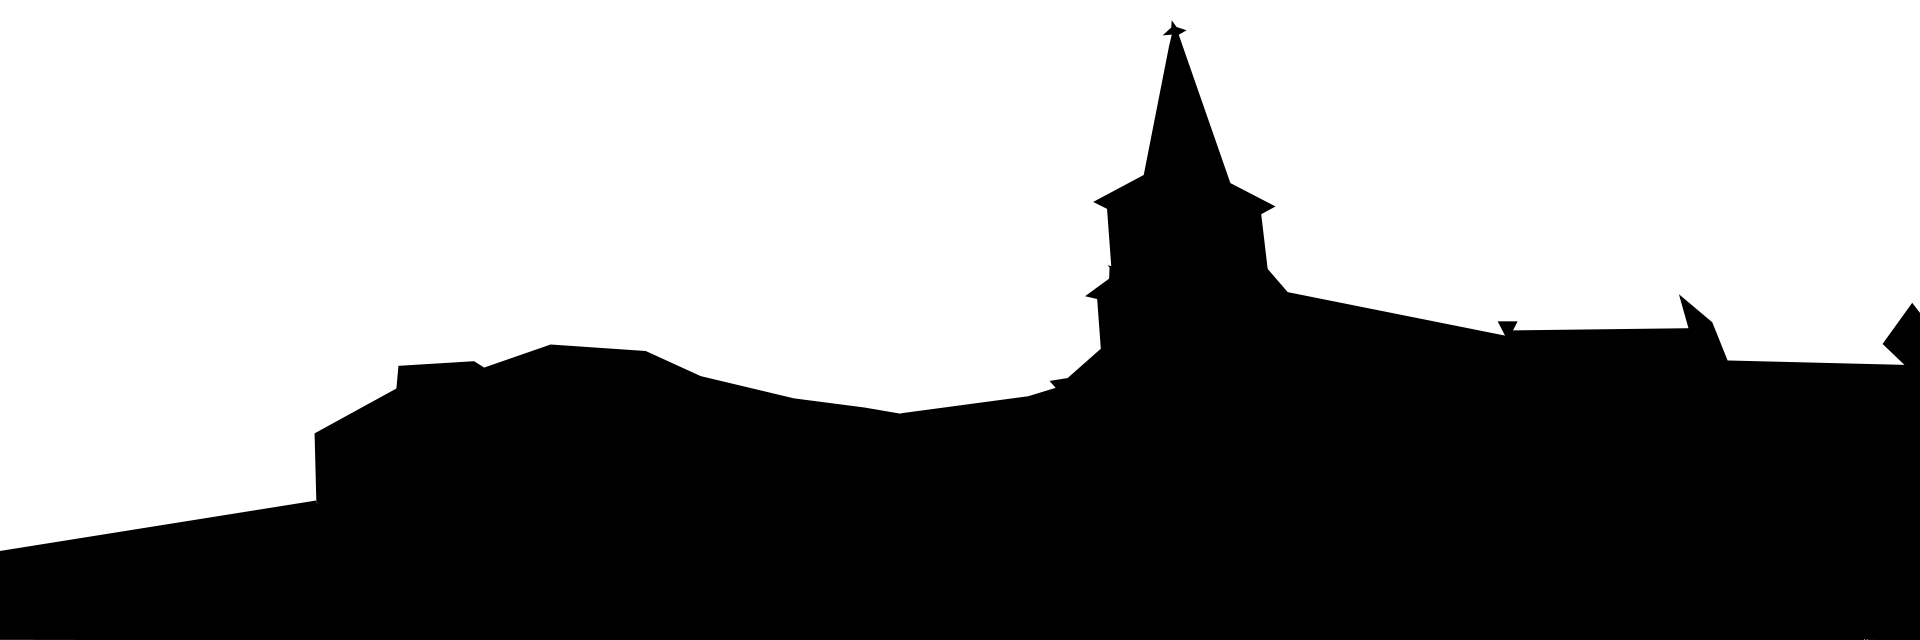
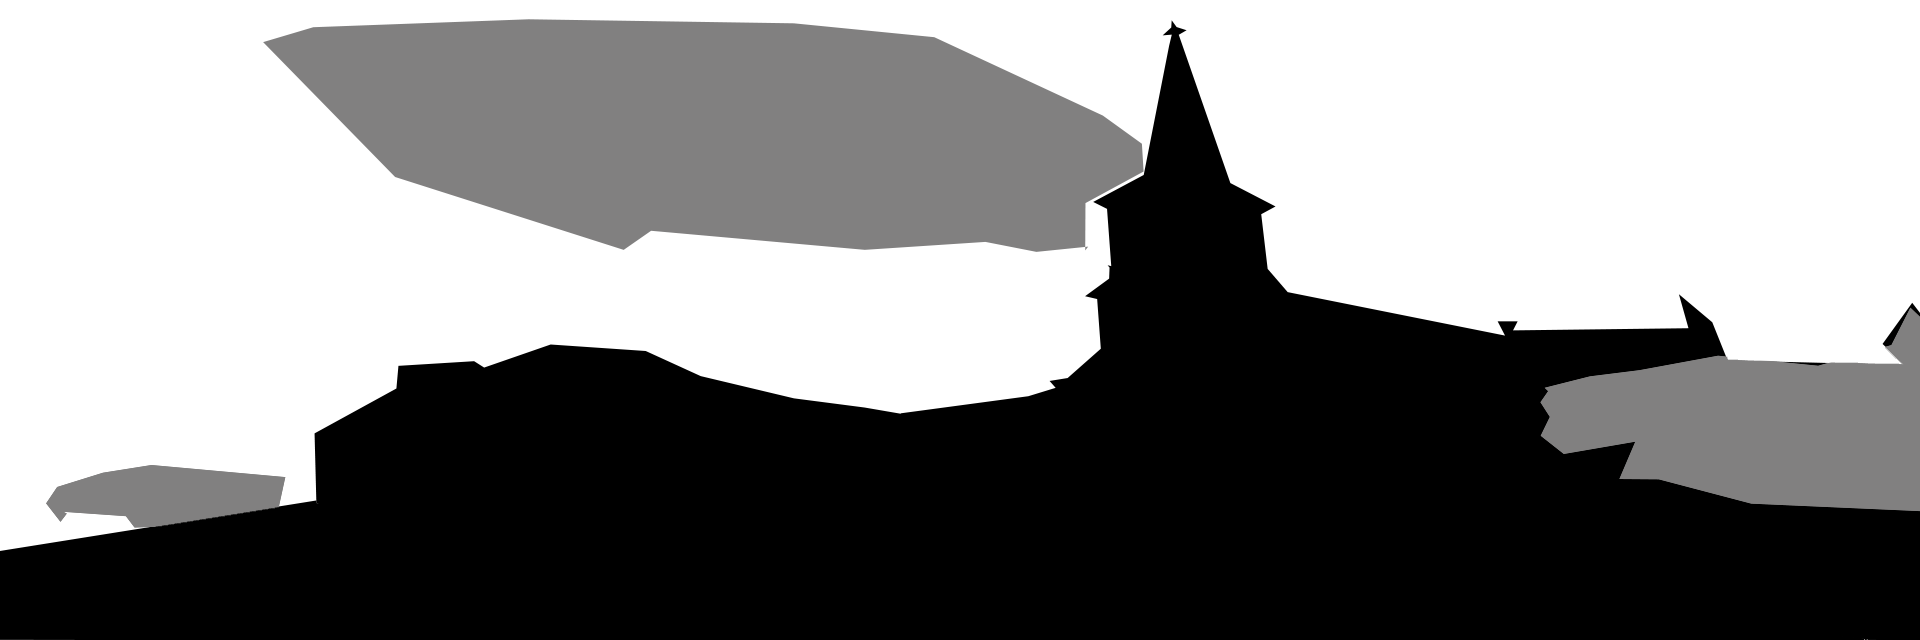
final

Changed region(s): [[0.125, 0.0312, 0.5938, 0.4062], [0.7812, 0.5, 1.0, 0.8125], [0.0, 0.7188, 0.1562, 0.8438]]

diff --git a/old download/sketch.js b/old download/sketch.js
@@ -38,16 +38,15 @@ function draw () {
     let cd = lerpColor(dark, light, bright);
 
     if (mask[0] == 0) {
-
-      fill(cd);
-      stroke(cd);
-      strokeWeight(1);
-      rect(x, y, pointSize, pointSize);
-     // image23
-     // fill(pix);
-     // stroke(pix);
-     // strokeWeight(1);
-     // rect(x, y, pointSize, pointSize);
+    fill(cd);
+    stroke(cd);
+    strokeWeight(1);
+    rect(x, y, pointSize, pointSize);
+    // image 23
+    //  fill(pix);
+    //  stroke(pix);
+    //  strokeWeight(1);
+    //  rect(x, y, pointSize, pointSize);
 
    }
 
@@ -57,30 +56,12 @@ function draw () {
      line(x, y, x+pointSize, y);
      strokeWeight(1);
   }
-  //   if (mask[0] > 128){
-  //
-  //
-  //         line(x, y, x+pointSize, y);
-  //         stroke(pix);
-  //         strokeWeight(5);
-  // } else {
-  //
-  //         strokeWeight(7);
-  //         let pixMod = sourceImg.get(x,y);
-  //         pixMod[0] = 255;
-  //         pixMod[1] = 25;
-  //         pixMod[2] = 30;
-  //         fill (pixMod[0],pixMod[1],pixMod[2]);
-  //   }
-
-    // if(mask[0] > 128) {
-    //   let pointSize = 50;
-    //   ellipse(x, y, pointSize, pointSize);
-    // }
-    // else {
-    //   let pointSize = 10;
-    //   rect(x, y, pointSize, pointSize);
-    // }
+  if (mask[0] == 129){
+    fill(pix);
+    stroke(pix);
+    line(x, y, x+pointSize, y);
+    strokeWeight(1);
+  }
 
   }
 

diff --git a/old download/README.md b/old download/README.md
@@ -1,4 +1,15 @@
 ## Creative Coding 2: Custom Pixel
 
-Experiment 2
-I change the building color into grey color, it is more comfortable. 
+Final: Ghost town
+For the final one,I choose this topic to reflect our world is build by two side---
+dark and light sides. The we alway pay attendtion on good side. the dark side people
+can not keep a watchful eyes on it for the long time, which is like
+the old  ghost town that is forgot in the corner in our memory.
+  I add some color to add color in every pictures to make all the
+pictures in the one style. At the custom pixel, I choose rectangle and line to be the
+fliter . Filling the line make the picture can make the picture to be vantage. And
+grey color to show the dark atmosphere. rectangle pixel can use for highlight. I use
+more time to add some color to show the two side of our world. one is colorful and beeautiful
+part. another one is dark side. all the photo come from my daliy life, and three photo are
+there places, so it can show different perspectives in our world. Therefore, it can include
+more factor to build "ghost town".      
